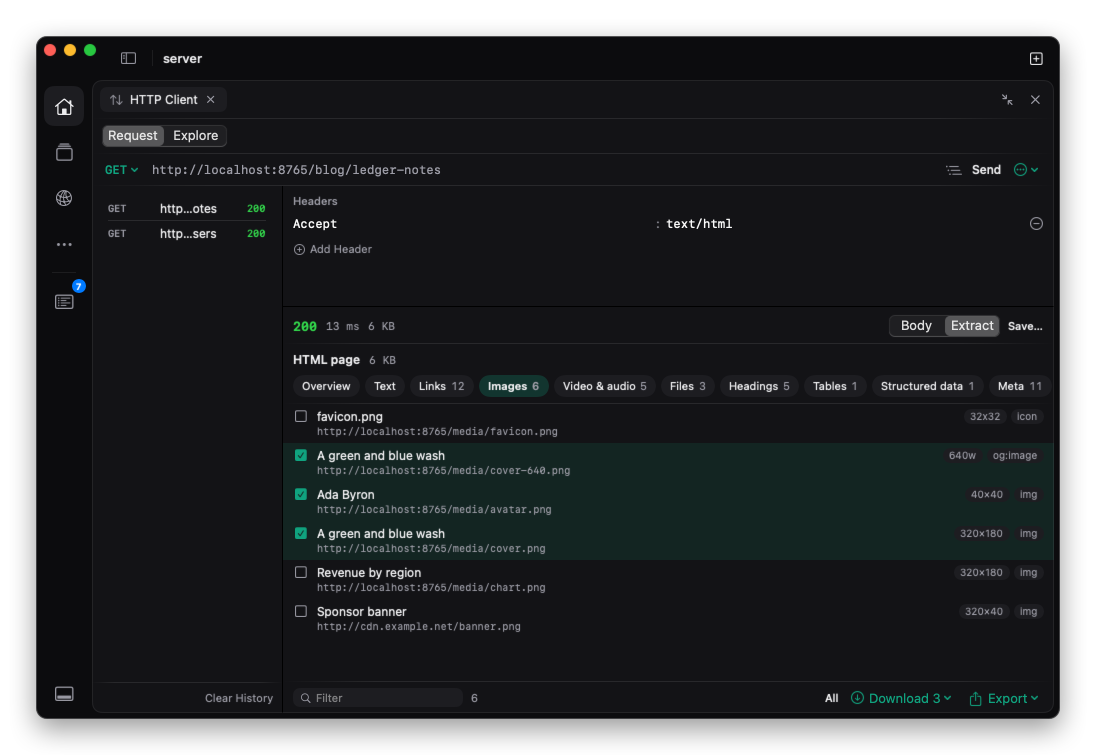
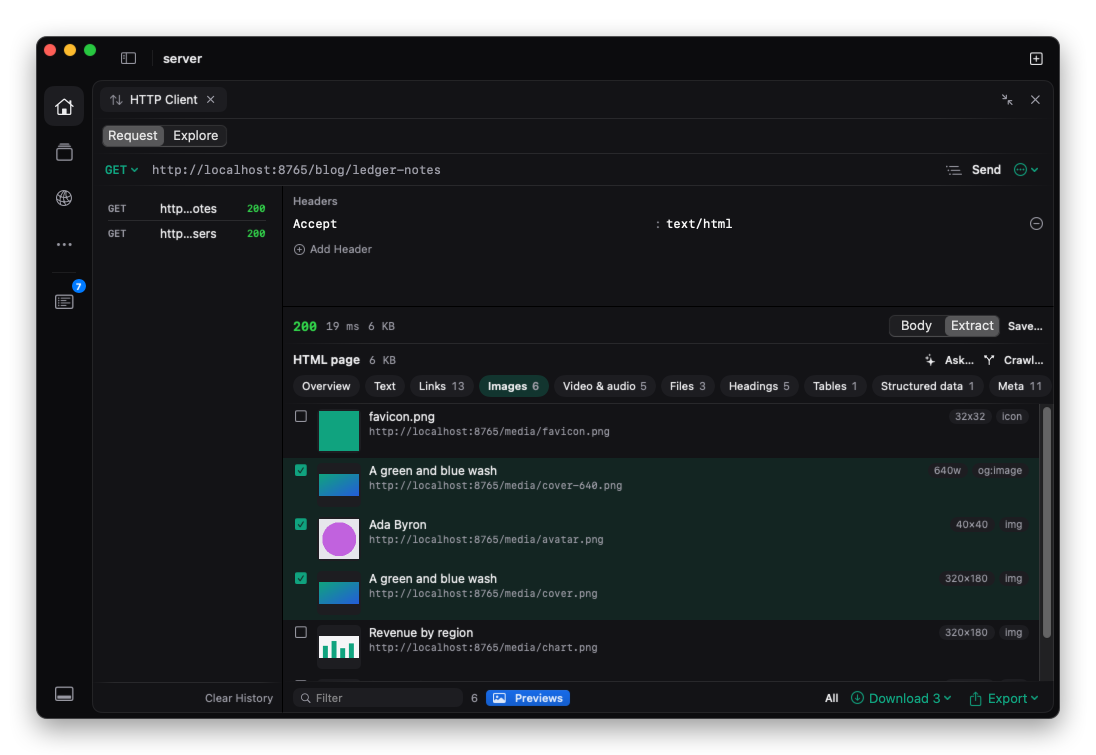
README: thirty-three pictures, six of them new, and the stand-in names an address the page does
The gallery gains the pictures of what this branch adds: the file browser using a
terminal's sign-in, the crawl's sheet and its two lists, the Ask sheet and its
answer. The Extract pictures that show the tab's header or the Images list are
retaken (they now carry Ask… and Crawl…, and previews); the rest are as they were.

The sample site's model stand-in now names the author's page on the sample site,
which the article links to, alongside an address the article does not, so the
scene shows both outcomes: one cell that can be acted on and one that is text.

Claude-Session: https://claude.ai/code/session_0165DgmoL1swZ7G6sBZGcerF

diff --git a/scripts/screenshots/fixture_server.py b/scripts/screenshots/fixture_server.py
@@ -379,11 +379,14 @@ ASSISTANT_DEFAULT = "I'm a stand-in for a model, used to take screenshots."
 
 # What the stand-in "extracts" from the sample article, by what is asked for: rows
 # as JSON, in a code fence the way models tend to write them. The second answer
-# names an address the page does not, to show that one is only text.
+# names one address the article does (its author's page, on the sample site) and
+# one it does not, to show that only the first is more than text.
+SITE_ORIGIN = ORIGIN.format(port=8765)
+
 EXTRACTIONS = (
     (
         ("region", "revenue", "costs"),
-        lambda origin: [
+        lambda: [
             {"region": "North", "revenue": 12, "costs": 7},
             {"region": "South", "revenue": 8, "costs": 5},
             {"region": "East", "revenue": 15, "costs": 9},
@@ -392,15 +395,15 @@ EXTRACTIONS = (
     ),
     (
         ("author", "profile"),
-        lambda origin: [
-            {"author": "Ada Byron", "profile": origin + "/about"},
+        lambda: [
+            {"author": "Ada Byron", "profile": SITE_ORIGIN + "/about"},
             {"author": "A. Reviewer", "profile": "https://invented.example/reviewer"},
         ],
     ),
 )
 
 
-def assistant_reply(request_body, origin=""):
+def assistant_reply(request_body):
     """The text of a chat-completions reply to the last user message in the request."""
     try:
         messages = json.loads(request_body or b"{}").get("messages", [])
@@ -415,7 +418,7 @@ def assistant_reply(request_body, origin=""):
         wanted = asked.rsplit("What to extract:", 1)[-1].lower()
         for keywords, rows in EXTRACTIONS:
             if any(word in wanted for word in keywords):
-                return "```json\n" + json.dumps(rows(origin), indent=2) + "\n```"
+                return "```json\n" + json.dumps(rows(), indent=2) + "\n```"
         return "[]"
     # Only the request itself, not the context lines (directory, branch) above it.
     asked = asked.rsplit("Request:", 1)[-1].lower()
@@ -454,7 +457,7 @@ def make_handler(origin, log_path, detail_path=""):
                 "model": "sample",
                 "choices": [{
                     "index": 0,
-                    "message": {"role": "assistant", "content": assistant_reply(body, origin)},
+                    "message": {"role": "assistant", "content": assistant_reply(body)},
                     "finish_reason": "stop",
                 }],
             })

diff --git a/scripts/screenshots/publish.py b/scripts/screenshots/publish.py
@@ -41,10 +41,16 @@ README_PICTURES = [
     "site-explorer",
     "extract-images",
     "extract-query",
+    "extract-crawl-confirm",
+    "extract-crawl",
+    "extract-ask-confirm",
+    "extract-ask",
     "extract-download-confirm",
+    "extract-crawl-links",
     "browser",
     "files",
     "files-sftp-denied",
+    "files-sftp-shared",
     "superfile",
     "btop",
     "command-palette",

diff --git a/README.md b/README.md
@@ -22,7 +22,7 @@ terminal (vim, htop, and ssh all work), not a command runner. No Electron.
   <img src="docs/images/workspace.png" width="900" alt="The iTERMiNAL window: an icon rail and a Workspaces sidebar with a pinned tab, a terminal showing a git history graph, and the floating composer with a command typed into it, coloured as it is typed.">
 </p>
 
-A tour of the app in twenty-seven pictures, in five groups.
+A tour of the app in thirty-three pictures, in five groups.
 
 ### The window
 
@@ -110,8 +110,8 @@ A tour of the app in twenty-seven pictures, in five groups.
   </tr>
   <tr>
     <td width="50%" valign="top">
-      <img src="docs/images/extract-images.png" alt="The Extract tab on the Images list of a fetched page: six images with their descriptions, addresses, sizes and where each came from, three of them ticked, and Filter, All, Download and Export controls beneath.">
-      <br><b>Extract</b> — read a response into lists you can filter, copy, save and download from: links, images, video and audio, files, tables, text.
+      <img src="docs/images/extract-images.png" alt="The Extract tab on the Images list of a fetched page: six images, each with a small picture, its description, address and size, three ticked, and Filter, Previews, All, Download and Export controls beneath.">
+      <br><b>Extract</b> — read a response into lists you can filter, copy, save and download from: links, images (with previews, if you turn them on), video and audio, files, tables, text.
     </td>
     <td width="50%" valign="top">
       <img src="docs/images/extract-query.png" alt="The Extract tab's query box: a CSS selector, img::attr(src), and the four image addresses it found, each with its element.">
@@ -120,22 +120,52 @@ A tour of the app in twenty-seven pictures, in five groups.
   </tr>
   <tr>
     <td width="50%" valign="top">
-      <img src="docs/images/extract-download-confirm.png" alt="The download sheet: four files from localhost, the folder they will go in, the size limit, and a line saying one more will not be fetched.">
-      <br><b>Download</b> — says which sites, which folder, and what will not be fetched (and why) before anything is requested.
+      <img src="docs/images/extract-crawl-confirm.png" alt="The crawl sheet: the site, up to 25 pages, 2 links deep, a second between requests, an option to stay under the page's folder, and four lines on what it will and won't do.">
+      <br><b>Crawl</b> — follow a page's own links to the rest of its site, after a sheet that says how far, how fast, and what it will and won't do.
     </td>
     <td width="50%" valign="top">
-      <img src="docs/images/browser.png" alt="The browser panel beside a terminal: three tabs with the pages' titles, an address bar, and the sample site's home page.">
-      <br><b>Browser</b> — a tabbed web view in a panel or a split pane, which the local scripting API can drive.
+      <img src="docs/images/extract-crawl.png" alt="The crawl's pages: each address reached with its status, title and depth, and the one robots.txt rules out listed as left alone.">
+      <br><b>What a crawl reached</b> — one page at a time, <code>robots.txt</code> first and obeyed: the page it rules out is listed, not fetched. See <a href="#extract">Extract</a>.
     </td>
   </tr>
   <tr>
     <td width="50%" valign="top">
+      <img src="docs/images/extract-ask-confirm.png" alt="The Ask sheet: a request, the question that would be sent and where, and a disclosure for every character of it.">
+      <br><b>Ask the assistant</b> — says where the page's text would go, and shows every character of it, before anything is sent.
+    </td>
+    <td width="50%" valign="top">
+      <img src="docs/images/extract-ask.png" alt="The assistant's answer as a table of regions with revenue and costs, labelled as written by the assistant.">
+      <br><b>Rows from a page</b> — the answer as a table of text, labelled as a model's. It is only ever shown: nothing in it is run, opened or fetched.
+    </td>
+  </tr>
+  <tr>
+    <td width="50%" valign="top">
+      <img src="docs/images/extract-download-confirm.png" alt="The download sheet: four files from localhost, the folder they will go in, the size limit, and a line saying one more will not be fetched.">
+      <br><b>Download</b> — says which sites, which folder, and what will not be fetched (and why) before anything is requested.
+    </td>
+    <td width="50%" valign="top">
+      <img src="docs/images/extract-crawl-links.png" alt="The links found on the crawled pages, each once with how often it came up and the first page it was found on.">
+      <br><b>What a crawl found</b> — every link, image, video and file on the pages it reached, each once, with the page it was first found on, in the same lists as above.
+    </td>
+  </tr>
+  <tr>
+    <td width="50%" valign="top">
+      <img src="docs/images/browser.png" alt="The browser panel beside a terminal: three tabs with the pages' titles, an address bar, and the sample site's home page.">
+      <br><b>Browser</b> — a tabbed web view in a panel or a split pane, which the local scripting API can drive.
+    </td>
+    <td width="50%" valign="top">
       <img src="docs/images/files.png" alt="The file browser panel beside a terminal, listing the sample project's folders and files with their modification times.">
       <br><b>File browser</b> — this Mac or any saved SFTP host, in a panel or a split pane.
     </td>
+  </tr>
+  <tr>
     <td width="50%" valign="top">
       <img src="docs/images/files-sftp-denied.png" alt="The file browser after a refused sign-in: Couldn't sign in to deploy@127.0.0.1, why, five numbered steps with commands to copy, and the buttons Try Again, Set Up Key, Sign In in a Terminal and Connection Settings.">
       <br><b>When a host won't let you in</b> — what went wrong, what to do in order, and a button for the next move. See <a href="#when-a-host-cant-be-reached">When a host can't be reached</a>.
+    </td>
+    <td width="50%" valign="top">
+      <img src="docs/images/files-sftp-shared.png" alt="The file browser listing a host after a terminal tab signed in to it, with a link icon beside the path.">
+      <br><b>A host that wants a password</b> — sign in once in a terminal tab, where the password goes to <code>ssh</code> and not to the app, and the file browser uses that connection. See <a href="#a-host-that-wants-a-password">A host that wants a password</a>.
     </td>
   </tr>
   <tr>
@@ -181,7 +211,7 @@ A tour of the app in twenty-seven pictures, in five groups.
   </tr>
 </table>
 
-<sub>These pictures are taken from the app itself by the [Screenshots workflow](.github/workflows/screenshots.yml), on a macOS runner, against an invented project (`hello-api`), a small web site on localhost, a stand-in for an AI model on localhost, and an SSH server on localhost that lets no one in — so nothing in them is real data, and the assistant's reply is a canned one, not a model's answer. The superfile and btop pictures show the runner's own files and processes, under its generic `runner` account. To retake them after the interface changes, run that workflow (Actions → Screenshots → Run workflow), download its artifact, and run `python3 scripts/screenshots/publish.py <folder>` on it: that writes these twenty-seven into `docs/images/`.</sub>
+<sub>These pictures are taken from the app itself by the [Screenshots workflow](.github/workflows/screenshots.yml), on a macOS runner, against an invented project (`hello-api`), a small web site on localhost, a stand-in for an AI model on localhost, and two SSH servers on localhost — one that lets no one in, and one that takes a single key made for the run — so nothing in them is real data, and the assistant's replies are canned ones, not a model's answers. The superfile and btop pictures show the runner's own files and processes, and the shared-sign-in picture the path of the sample project in its home folder, under its generic `runner` account. To retake them after the interface changes, run that workflow (Actions → Screenshots → Run workflow), download its artifact, and run `python3 scripts/screenshots/publish.py <folder>` on it: that writes these thirty-three into `docs/images/`.</sub>
 
 ## Features
 
